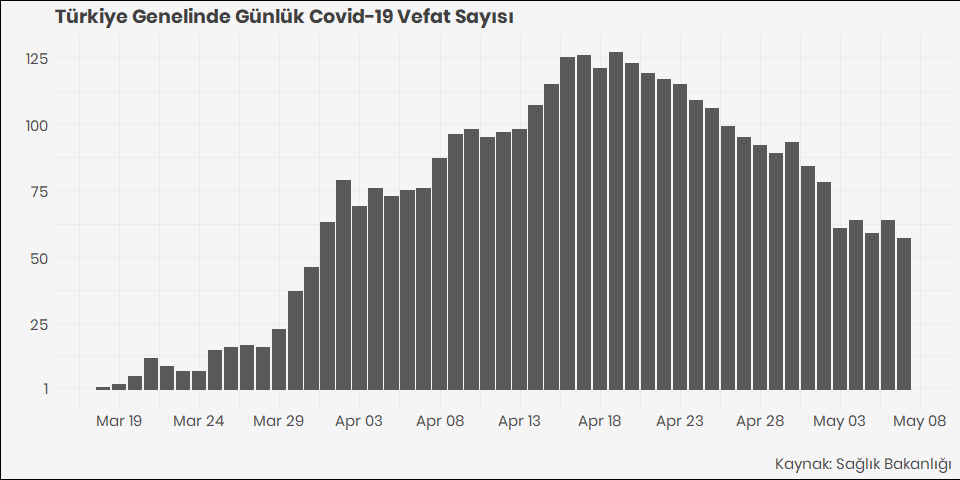
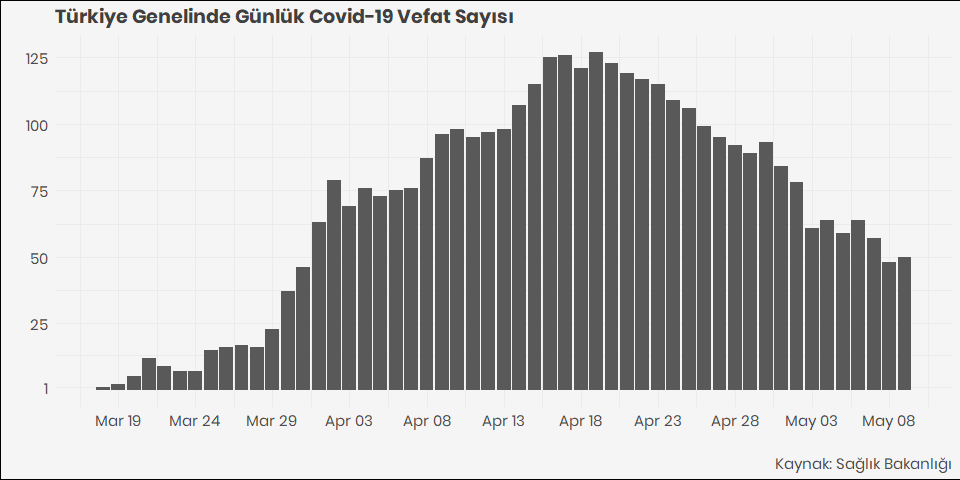
update_05_10

Changed region(s): [[0.125, 0.0938, 0.9688, 0.8125], [0.3438, 0.8438, 1.0, 0.9062], [0.0938, 0.8438, 0.3125, 0.9062]]

diff --git a/codes/kodlar.html b/codes/kodlar.html
@@ -382,7 +382,7 @@ summary {
 
 <h1 class="title toc-ignore">COVID-19 Türkiye Verileri | COVID - 19 TURKEY DATA</h1>
 <h4 class="author">Sadettin Demirel</h4>
-<h4 class="date">08 May, 2020</h4>
+<h4 class="date">10 May, 2020</h4>
 
 </div>
 
@@ -458,64 +458,6 @@ gunluk_vaka
 </tr>
 </thead>
 <tbody>
-<tr>
-<td style="text-align:left;">
-23.04.2020
-</td>
-<td style="text-align:right;">
-791906
-</td>
-<td style="text-align:right;">
-101790
-</td>
-<td style="text-align:right;">
-2491
-</td>
-<td style="text-align:right;">
-1816
-</td>
-<td style="text-align:right;">
-982
-</td>
-<td style="text-align:right;">
-18491
-</td>
-<td style="text-align:right;">
-115
-</td>
-<td style="text-align:right;">
-3116
-</td>
-</tr>
-<tr>
-<td style="text-align:left;">
-24.04.2020
-</td>
-<td style="text-align:right;">
-830257
-</td>
-<td style="text-align:right;">
-104912
-</td>
-<td style="text-align:right;">
-2600
-</td>
-<td style="text-align:right;">
-1790
-</td>
-<td style="text-align:right;">
-929
-</td>
-<td style="text-align:right;">
-21737
-</td>
-<td style="text-align:right;">
-109
-</td>
-<td style="text-align:right;">
-3122
-</td>
-</tr>
 <tr>
 <td style="text-align:left;">
 25.04.2020
@@ -891,6 +833,64 @@ gunluk_vaka
 </td>
 <td style="text-align:right;">
 1977
+</td>
+</tr>
+<tr>
+<td style="text-align:left;">
+08.05.2020
+</td>
+<td style="text-align:right;">
+1298806
+</td>
+<td style="text-align:right;">
+135569
+</td>
+<td style="text-align:right;">
+3689
+</td>
+<td style="text-align:right;">
+1219
+</td>
+<td style="text-align:right;">
+653
+</td>
+<td style="text-align:right;">
+86396
+</td>
+<td style="text-align:right;">
+48
+</td>
+<td style="text-align:right;">
+1848
+</td>
+</tr>
+<tr>
+<td style="text-align:left;">
+09.05.2020
+</td>
+<td style="text-align:right;">
+1334411
+</td>
+<td style="text-align:right;">
+137115
+</td>
+<td style="text-align:right;">
+3739
+</td>
+<td style="text-align:right;">
+1168
+</td>
+<td style="text-align:right;">
+628
+</td>
+<td style="text-align:right;">
+89480
+</td>
+<td style="text-align:right;">
+50
+</td>
+<td style="text-align:right;">
+1546
 </td>
 </tr>
 </tbody>

diff --git a/README.md b/README.md
@@ -100,122 +100,6 @@ gunluk\_vaka
 
 <td style="text-align:left;">
 
-18.04.2020
-
-</td>
-
-<td style="text-align:right;">
-
-598933
-
-</td>
-
-<td style="text-align:right;">
-
-82329
-
-</td>
-
-<td style="text-align:right;">
-
-1890
-
-</td>
-
-<td style="text-align:right;">
-
-1894
-
-</td>
-
-<td style="text-align:right;">
-
-1054
-
-</td>
-
-<td style="text-align:right;">
-
-10453
-
-</td>
-
-<td style="text-align:right;">
-
-121
-
-</td>
-
-<td style="text-align:right;">
-
-3783
-
-</td>
-
-</tr>
-
-<tr>
-
-<td style="text-align:left;">
-
-19.04.2020
-
-</td>
-
-<td style="text-align:right;">
-
-634277
-
-</td>
-
-<td style="text-align:right;">
-
-86306
-
-</td>
-
-<td style="text-align:right;">
-
-2017
-
-</td>
-
-<td style="text-align:right;">
-
-1922
-
-</td>
-
-<td style="text-align:right;">
-
-1031
-
-</td>
-
-<td style="text-align:right;">
-
-11976
-
-</td>
-
-<td style="text-align:right;">
-
-127
-
-</td>
-
-<td style="text-align:right;">
-
-3977
-
-</td>
-
-</tr>
-
-<tr>
-
-<td style="text-align:left;">
-
 20.04.2020
 
 </td>
@@ -1251,6 +1135,122 @@ gunluk\_vaka
 <td style="text-align:right;">
 
 1977
+
+</td>
+
+</tr>
+
+<tr>
+
+<td style="text-align:left;">
+
+08.05.2020
+
+</td>
+
+<td style="text-align:right;">
+
+1298806
+
+</td>
+
+<td style="text-align:right;">
+
+135569
+
+</td>
+
+<td style="text-align:right;">
+
+3689
+
+</td>
+
+<td style="text-align:right;">
+
+1219
+
+</td>
+
+<td style="text-align:right;">
+
+653
+
+</td>
+
+<td style="text-align:right;">
+
+86396
+
+</td>
+
+<td style="text-align:right;">
+
+48
+
+</td>
+
+<td style="text-align:right;">
+
+1848
+
+</td>
+
+</tr>
+
+<tr>
+
+<td style="text-align:left;">
+
+09.05.2020
+
+</td>
+
+<td style="text-align:right;">
+
+1334411
+
+</td>
+
+<td style="text-align:right;">
+
+137115
+
+</td>
+
+<td style="text-align:right;">
+
+3739
+
+</td>
+
+<td style="text-align:right;">
+
+1168
+
+</td>
+
+<td style="text-align:right;">
+
+628
+
+</td>
+
+<td style="text-align:right;">
+
+89480
+
+</td>
+
+<td style="text-align:right;">
+
+50
+
+</td>
+
+<td style="text-align:right;">
+
+1546
 
 </td>
 
